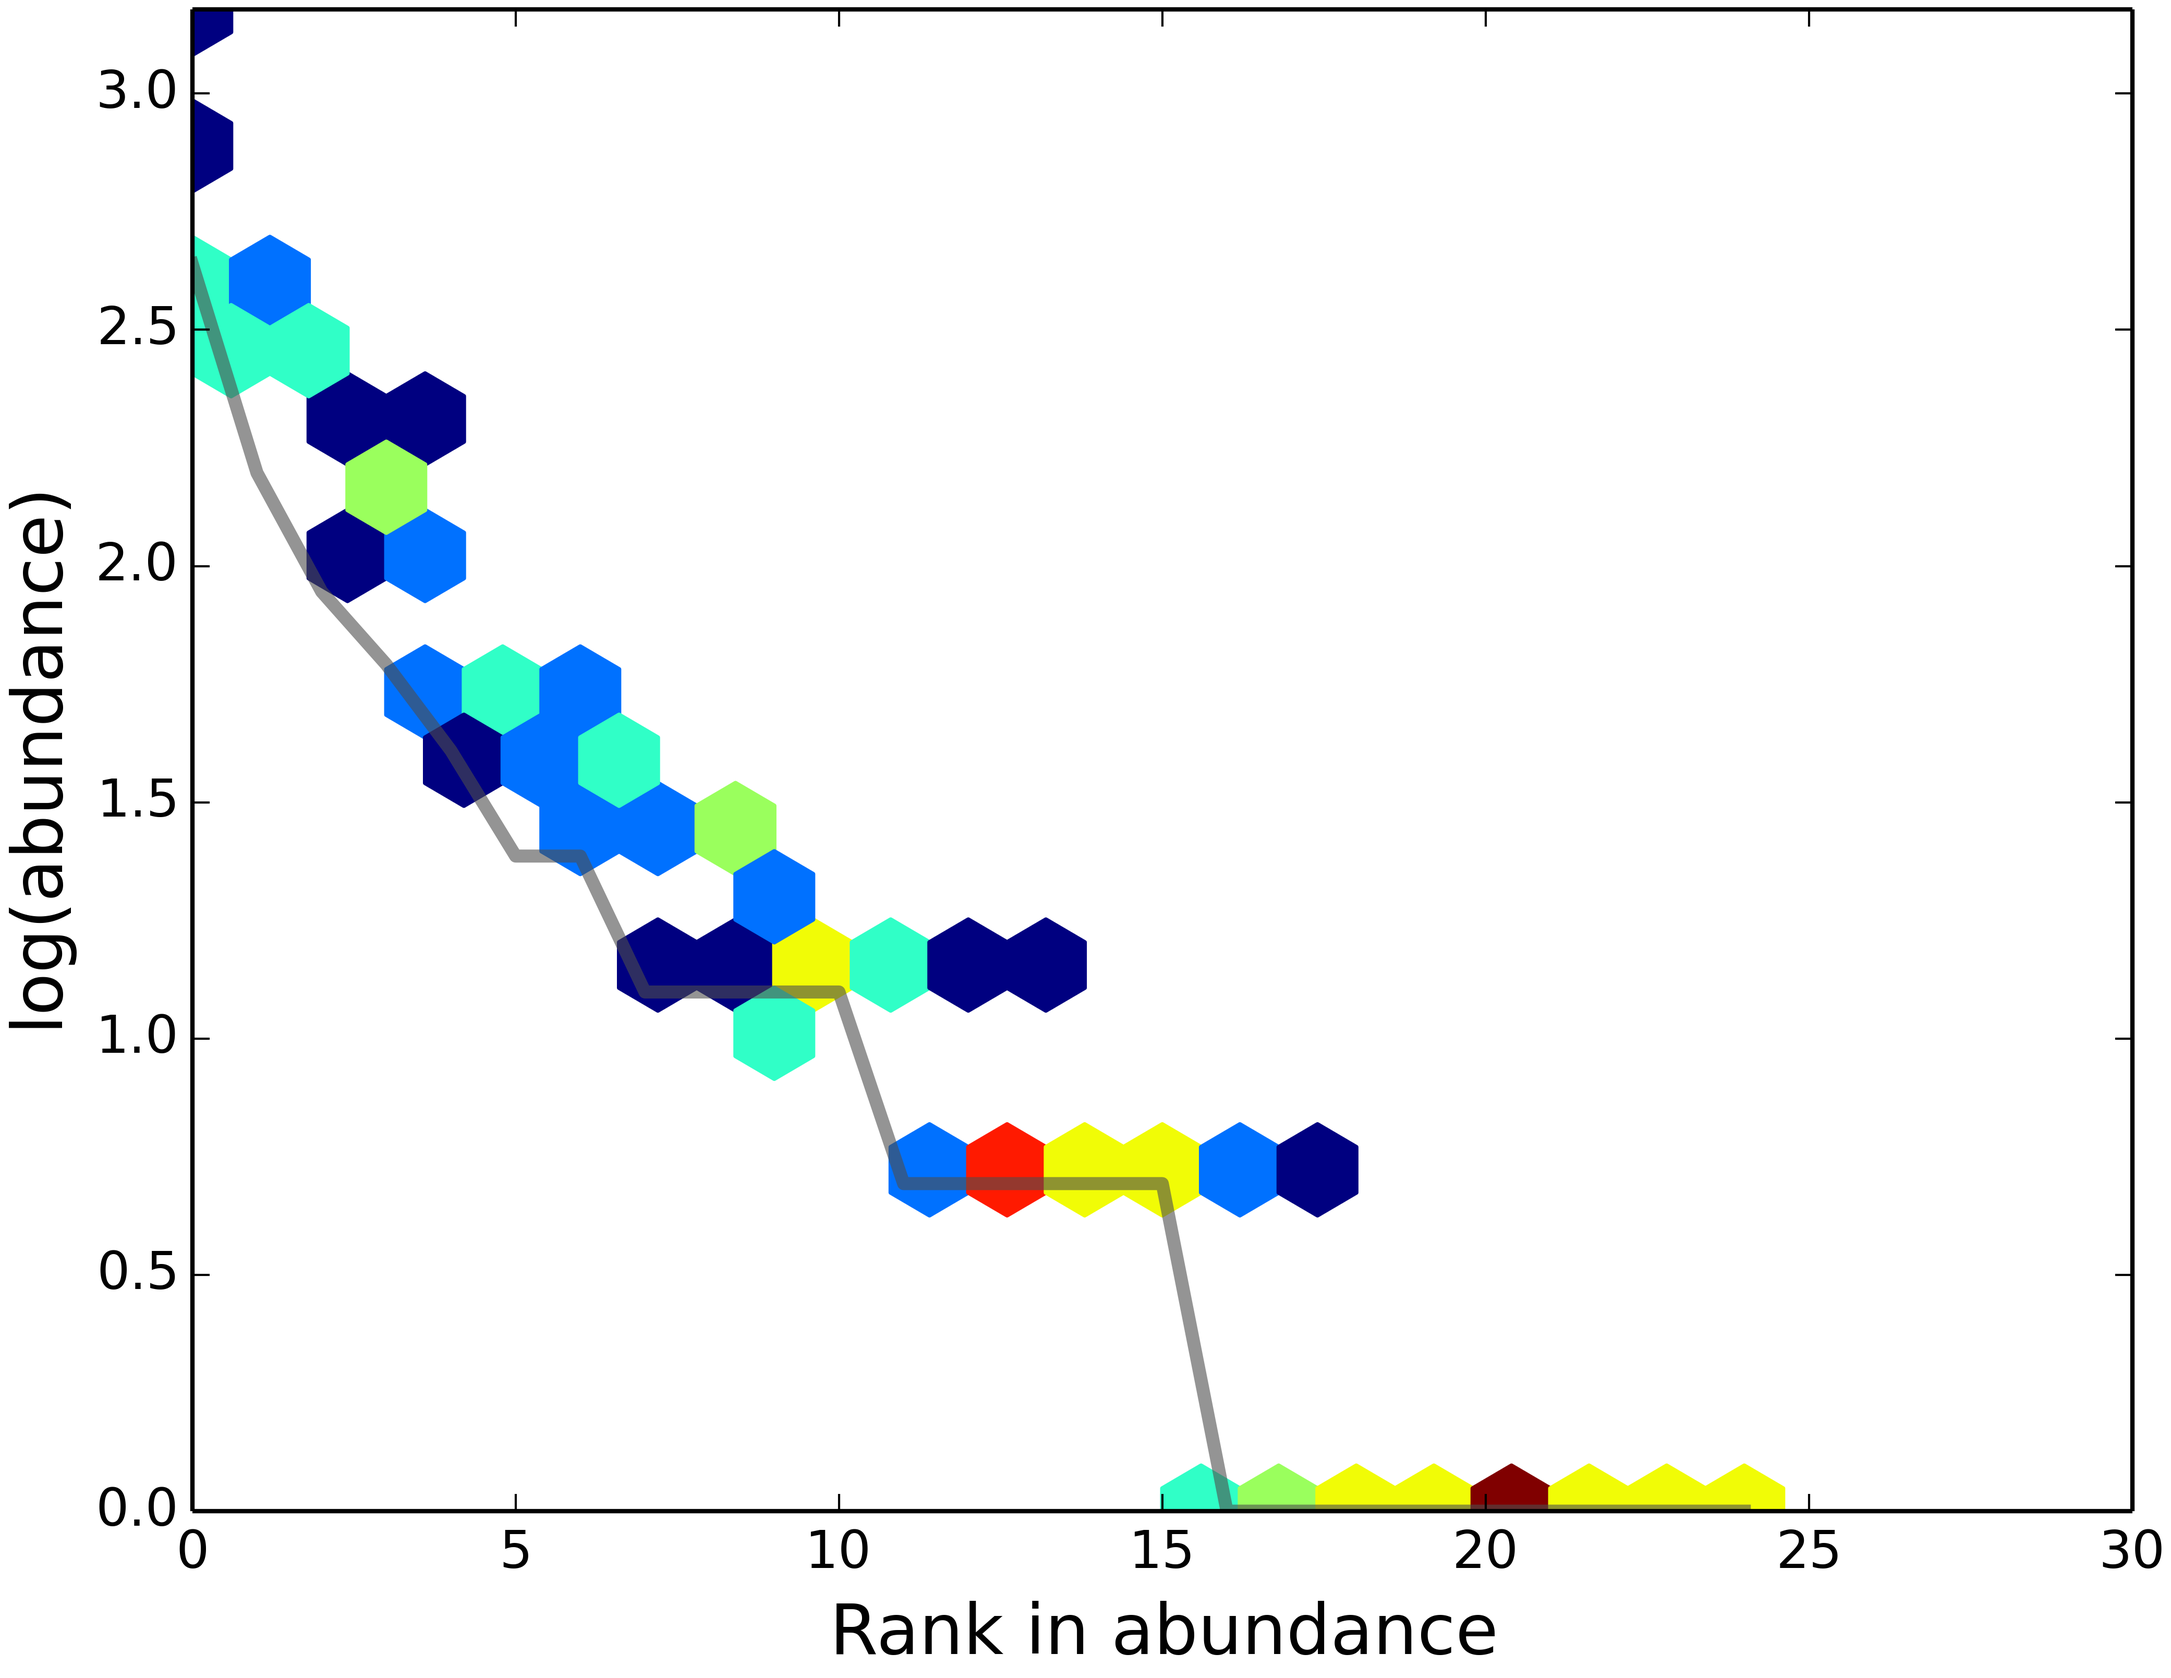
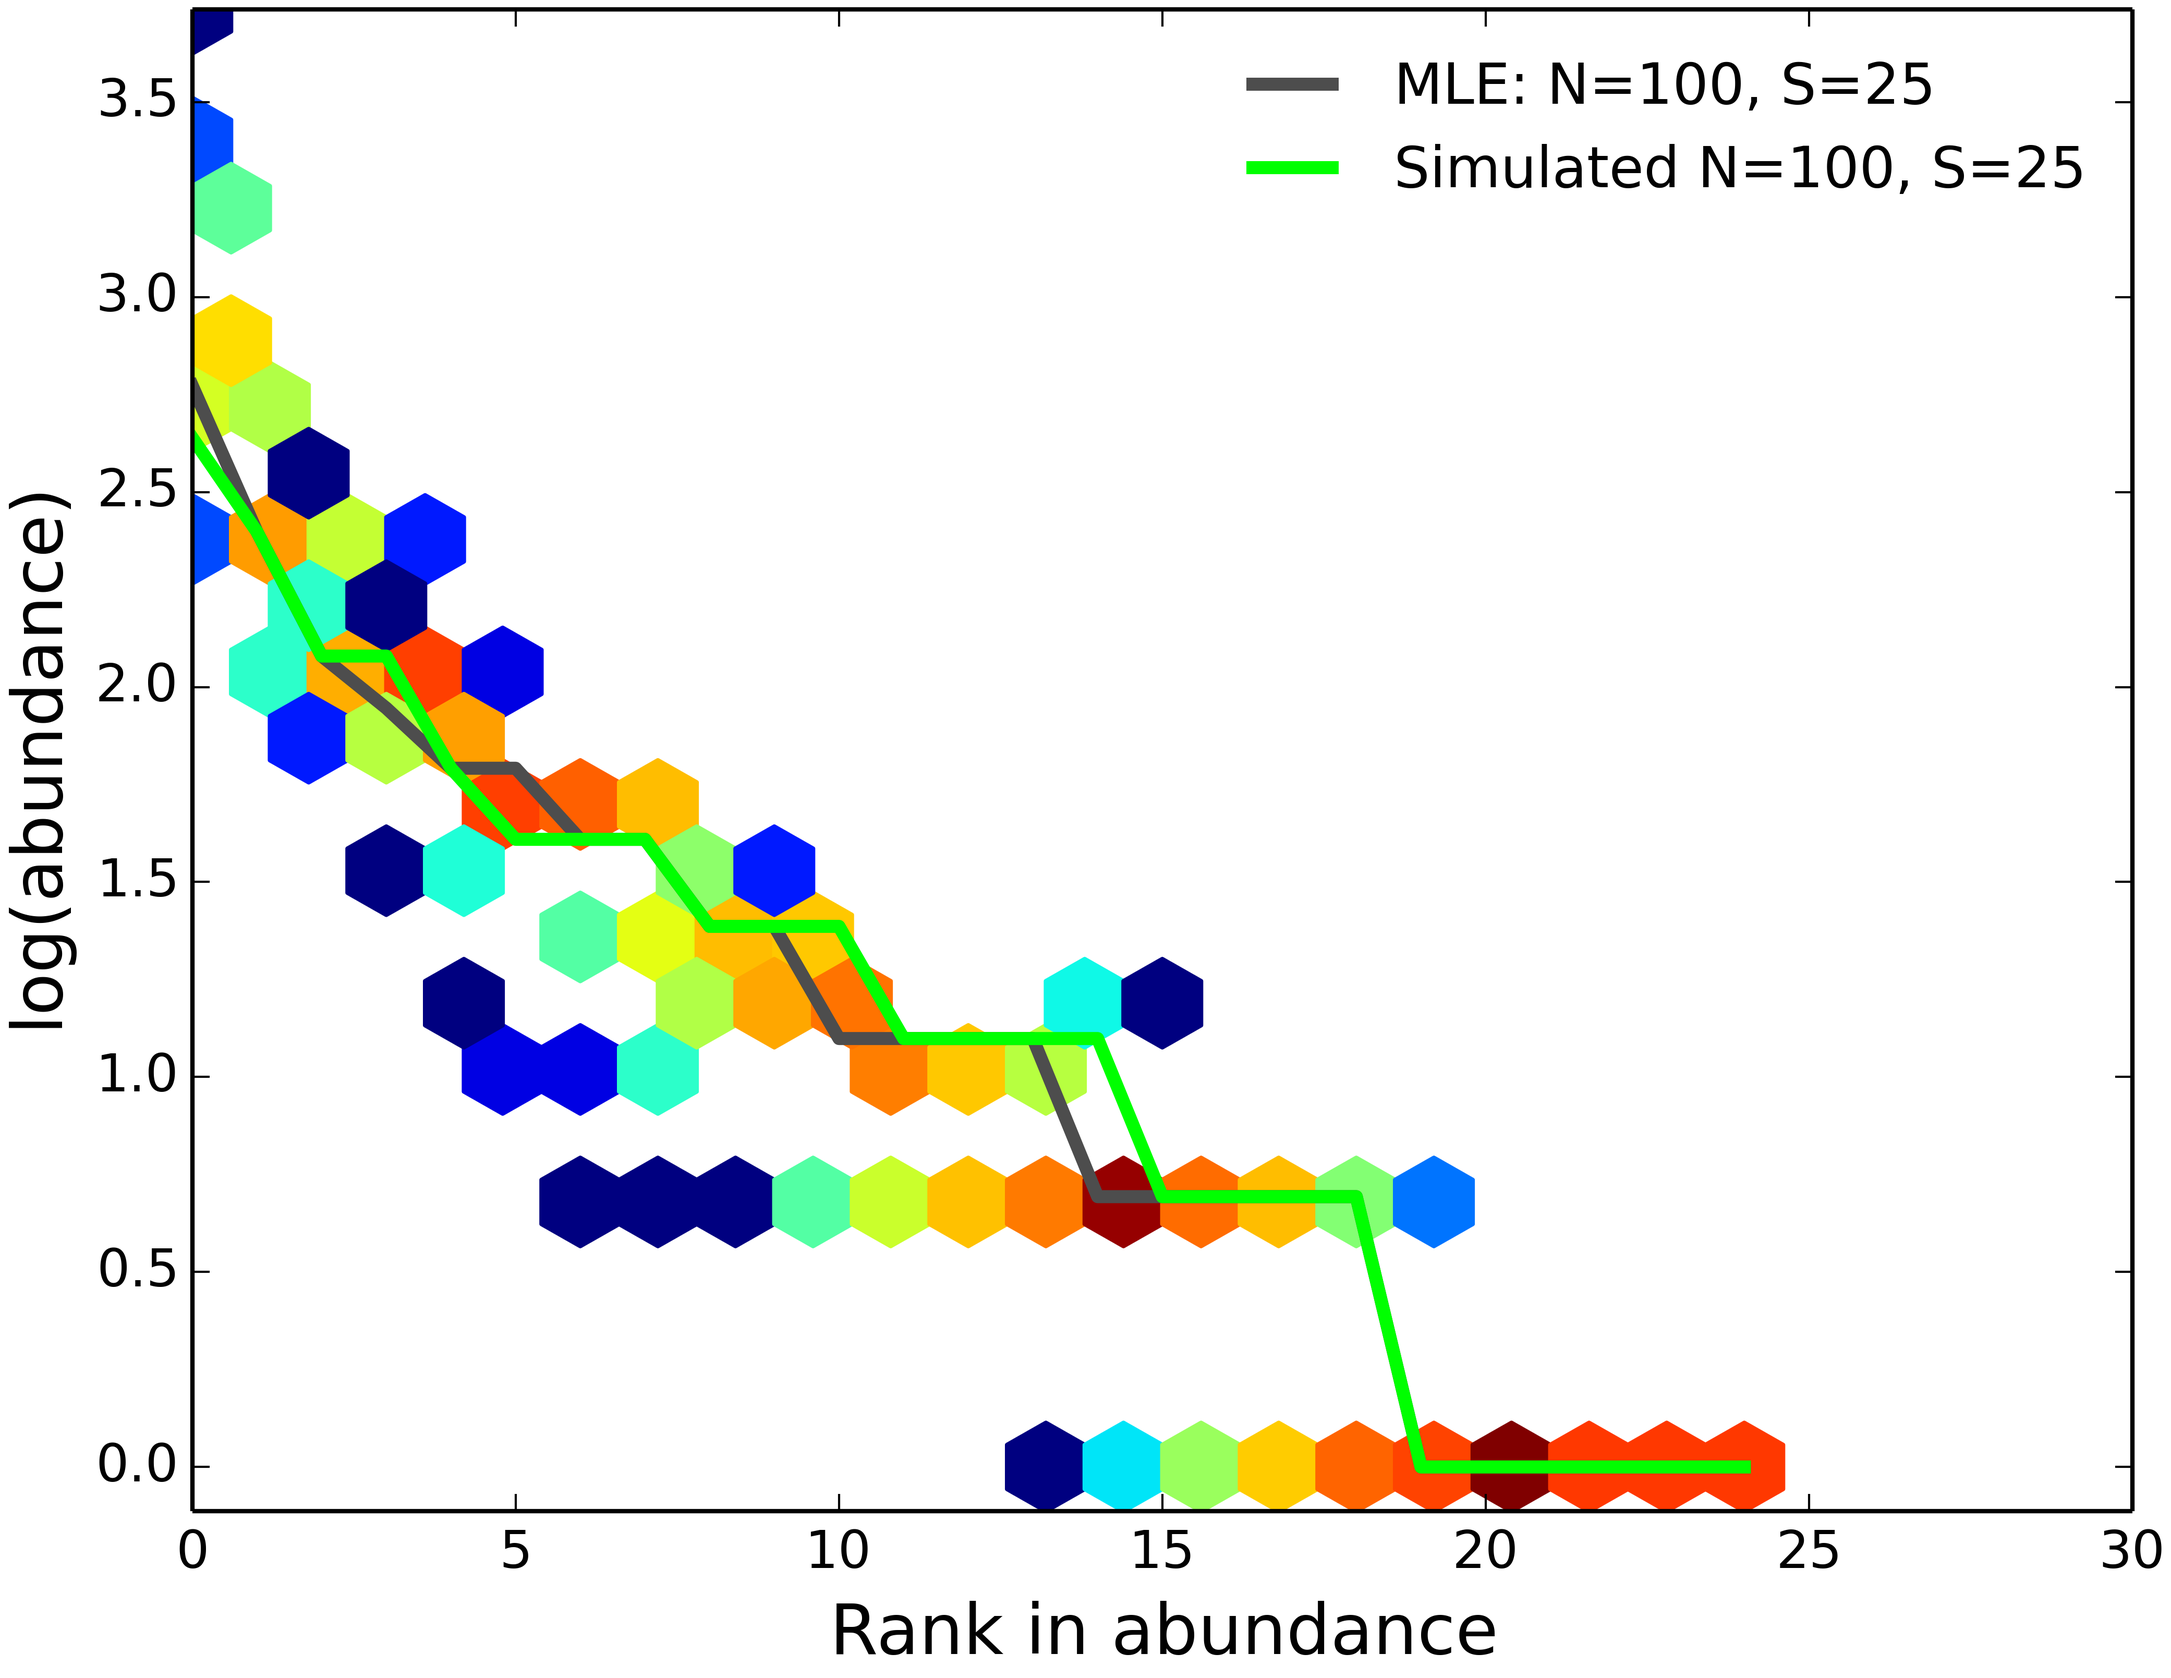
ran some different #s

diff --git a/Models/LogNorm_MLEs_and_RACs.py b/Models/LogNorm_MLEs_and_RACs.py
@@ -105,8 +105,8 @@ def get_LogNormMLE(RAC):
     
     
 sample_size = 100
-N = 500
-S = 50
+N = 80000
+S = 250
 RACs = SimLogNorm(N, S, sample_size)
 RAC = AvgShape(RACs) # you (nathan) were leaving this out
 
@@ -144,5 +144,5 @@ plt.xlim(0, S + 5)
 plt.xlabel('Rank in abundance', fontsize=16)
 plt.ylabel('log(abundance)', fontsize=16)
 
-#plt.savefig('/Users/Nathan_Hillis/SADModels/figures/Debug_Figs/Ploting_MLE_RACs/logNormal_MLEs_RACs_N='+str(N)+'_S='+str(S)+'.png', dpi=600, bbox_inches = 'tight', pad_inches=0.03)
+plt.savefig('/Users/Nathan_Hillis/SADModels/figures/Debug_Figs/Ploting_MLE_RACs/logNormal_MLEs_RACs_N='+str(N)+'_S='+str(S)+'.png', dpi=600, bbox_inches = 'tight', pad_inches=0.03)
 plt.show()
